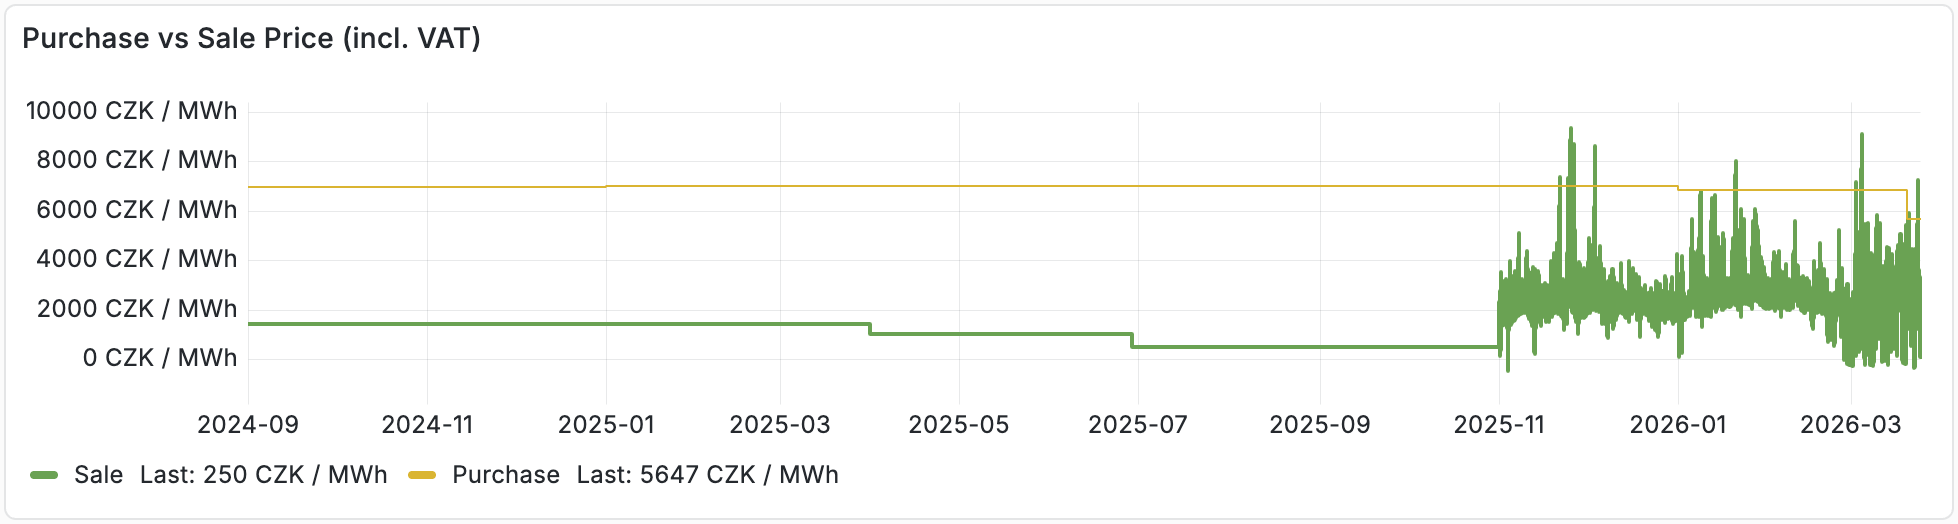
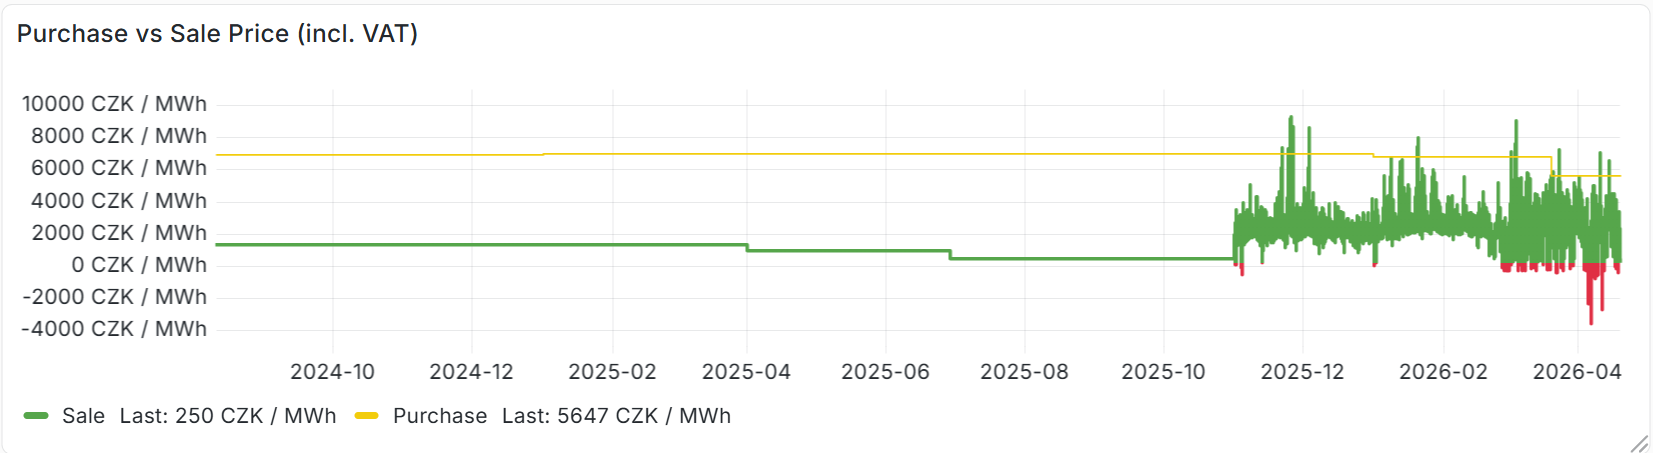
WIP for HA

diff --git a/README-HA.md b/README-HA.md
@@ -1,0 +1,243 @@
+# Introduction 
+> :sparkles: Some bits of code has been proposed by AI. Also text has been corrected with help of AI.
+
+After A year or so of having photovoltaic installation (PV) and pretty good flat rate of selling energy I had to switch to spot prices. It introduced a need to squeeze as much as possible from this setup. in terms of optimizing a return of investment (ROI).
+
+The solution does not implement automation of activating household appliances, that accumulates energy during cheapest periods. It correlates electricity spot prices with solar exposure forecast to find the best time frames to sell the energy as well as charge battery.
+
+# Understanding PV Plant ROI
+
+> :bulb: the information below is based on Central European market. Might differ in other parts of the world.
+
+The most important factor is that the gross price of purchased electricity is several times higher than the price at which electricity is sold. In the Czech Republic, households sell electricity at net prices. While no regulatory costs are applied on the selling side, intermediary companies charge various handling fees, reducing the net income.
+
+At the same time, purchasing electricity includes additional regulatory costs such as distribution, network maintenance, and special taxes - all of which are further increased by VAT.
+
+Here is the evolution of total selling and purchasing prices over the past years:
+
+![Sale vs Purchase Price Comparison](images/sale_vs_purchase.png)
+You might spot, that since Nov'25 the saling price is not constant anymore. Correct, those are spot prices I opted since then. It's obvious that average price is higher than previously flat rate. Red color indicates prices below which export to grid should avoided. It's because of negative prices spot prices shifted by a fee for the company who I sell the energy to.
+
+The ROI (Return on Investment) is built on two main components:
+
+- **PV energy consumed by the household** – This should form the largest portion of ROI. It represents the cost of electricity you did not have to buy thanks to your PV system. The more PV energy you can store and use within the household, the better.
+- **PV energy sold** – Typically, especially during summer months, more PV produced energy is sold than utilized, but its total contribution to ROI is significantly smaller. Doesn't mean negligible.
+
+# The Automation Concept
+
+These observations lead to a set of general automation rules:
+
+1. Sell energy stored in batteries during peak price periods
+2. Delay battery charging during morning hours, to sell PV production for good prices
+3. Charge the battery during the cheapest price window
+4. Discharge only if enough PV energy is forecasted
+5. Secure minimum energy in battery to avoid buying it for household operations
+
+This together introduces four phases:
+
+## Discharge (morning and evening)
+
+> ??? To sell stored energy, the inverter must be switched to a mode that exports battery energy to the grid. This may be available as a main operating mode or as a scheduled mode (Time of Use, ToU).
+
+While it could be limited to single discharge in the morning, split into two has benefits:
+* prices during evening hours are ussually a bit higher
+* Due to narrowness of peaks it's better to share energy over two peaks
+* split into two gives better margin management
+* morning PV forecast allows last minute skip of morning discharge
+
+Discharging must not result in an energy deficit later. Therefore no discharge is triggered if not enough PV energy is forecasted. At the same time a minimum battery levels must be maintained. In my setup it makes 25% SOC reserved after morning discharge together with minimum of 17kWh forecasted energy or 70% SOC after evening discharge and 13 kWh of forecasted PV energy next day.
+
+The exact setup might differ from installation to installation. It must be set with safe margin to avoid buying energy if not enough sunlight.
+
+## Delayed Charge
+
+It is the period between morning discharge and the cheapest charging window.
+
+During this time:
+- The system should behave similarly to General mode, but
+- PV production should prioritize export to the grid over charging the battery.
+
+This period implements several guards:
+
+- it's activated only if proceeds the morning discharge. It comes from assumption that limted forecasted energy might lead to insufficient battery charge, thus the operation is not worth it.
+
+- during this period, the battery still provides energy to the hausehold, in case PV doesn't cover the needs. If battery SOC drops to the predefined limit, the mode is interrupted and inverter returns to regular operational mode, securing battery charge from PV.
+
+- if spot prices drop too low during this period, selling does not make sense anymore. It is better to use PV energy to charge the battery.
+
+> ??? This mode might be called **Feed-in Mode**. If unavailable, limiting the charging current may help achieving a similar result, though Feed-in Mode still allows charging if PV production exceeds export limits.
+
+> Wattsonic Gen3 with firmware 2.x does not provide Feed-in Mode. It was introduced in later firmware versions.
+
+## Cheapest Charge
+
+Charging during the cheapest hours requires no special inverter mode - just the standard “General” mode. More important is securing enough time to fully charge battery. During development and testing cycle I introduced some parameters to avoid extreme sitatuations:
+
+- Charging End Time - If cheapest hours become later than usual and/or bad sun conditions requires more time to charge, both cases together with forecast unpredictability might lead to situation that battery will not charge enough. This setting prevents it by planning the chargin time window earlier.
+
+- Charge Overhead - Normally the demand is calculated from battery size, SOC to charge and forecasted PV energy capped by Charge velocity. It does not take into account household usage. This parameter increases energy demand for charging by given factor in an attempt to predict realistic time window for the charge.
+
+<img src="images/config_2.png" alt="Config 2" width="40%">
+
+# The Package
+
+For no better option, the entire solution is implemented as a Home Assistant package, and it depends on some external components.
+
+```mermaid
+flowchart
+
+        subgraph ext [" "]
+            direction LR
+                sc[Solcast]
+                sp[Spot Prices]
+                inv[Inverter]
+        end
+
+        subgraph ha [PV Control Package]
+            ts[Template Sensors] --> a[Automation]
+            cnf[Config Entities] --> a
+            ps[Proxy Sensors] --> a[Automation]
+            a <--> as["Automation State"]
+            a -->|call| scr[Scripts]
+            scr --> inv
+            inv --> ps
+            sc --> ps
+            sp --> ps
+        end
+
+style ext fill:white,stroke-width:0px
+```
+
+**Template Sensors**
+These sensors calculate start and end of time periods, reflecting automation life-cycle.
+
+- `sensor.pv_ctrl_most_expensive_hours_morning` – Start time of morning discharge
+- `sensor.pv_ctrl_most_expensive_hours_afternoon` – Start time of evening discharge
+- `sensor.pv_ctrl_cheapest_hours` – Start time of cheapest charging window
+
+These sensors stores additional data under attributes.data key. The information is used for the internal logic as well as for dashboard presentation
+
+**Prices Sensor**
+This sensor provides array of today's and tomorrow spot prices. unlike in original Czech spot prices integration, it organizes data into an array, rather that values assigned to volatile keys. Such an structure is better for processing. It also plays a role of the proxy, allowing to implement different spot pricing providers. The data are stored in `attributes.data` as `[{time1: val1}, {time2, val2}, {timen: valn}]`, where time is provided as ISO formatted string and value represent energy in kWh.
+
+**Automation State and Config Entities**
+
+Both are implemented as `input` entities. 
+
+Automation state materializes state of the automation logic.
+
+Config Entities provides option to customize and control the automation.
+
+
+| Entity                                       | Description |
+|----------------------------------------------|-------------|
+| `input_boolean.pv_ctrl_edit_mode`            | Used for dashboard only, preventing accidental changes to the settings. It's especially important for mobile views, where current HA UI makes an accidental change of parameters more then likely |
+| `input_select.pv_ctrl_mode`                  | Allows to enable the automation either in `real` or `dry mode`, or `disable` it. The `Dry-run` does everything but requesting changes to the inverter. It's good to test if the automation phases proceed as expected. |
+| `input_boolean.pv_ctrl_debug`                | Toggles recording the debug informations to the Home Assistant log |
+| `input_select.pv_ctrl_phase`                 | Materializes and provides the current automation phase. Not intended to be edited manually. Possible values are `General`, `Morning Discharge`, `Delayed Charge`, `Cheapest Charge`, `Evening Discharge`. |
+| `input_number.pv_ctrl_min_suncast_current_day` | Minimum forecasted energy for today; required for the morning discharge |
+| `input_number.pv_ctrl_min_suncast_next_day` | Minimum forecasted energy for tomorrow; required for the evening discharge |
+| `input_number.pv_ctrl_soc_limit_morning`    | SOC limit for morning discharge |
+| `input_number.pv_ctrl_soc_limit_evening`    | SOC limit for evening discharge |
+| `input_number.pv_ctrl_min_export_price`     | Maximum energy price (per kWh), that prevents exporting energy (e.g., 0.25 CZK). |
+| `input_number.pv_ctrl_charge_velocity`      | Maximum charging power, the velocity the battery can be charged with. Used to cap PV energy provided by Solcast |
+| `input_number.pv_ctrl_discharge_velocity`   | Maximum discharge power, used to calculate a time needed to discharge battery to requested SOC |
+| `input_number.pv_ctrl_battery_capacity`     | Used in calculation of 1% of SOC |
+| `input_datetime.pv_ctrl_charge_delay_time_limit` | Limits predicted end time of cheapest charge time window. Might be helpful if cheapest hours (occasionally) starts late afternoon, but you don't want to delay charging so much |
+
+
+**Script**
+The `script.pv_ctrl_inverter` is a single script, parametrized to implement inverter-specific commands. It's called by the automation. It might be used for manual control of the automation or inverter from dashboard.
+
+Example:
+```yaml
+action: script.pv_ctrl_inverter
+data:
+  mode: general
+```
+
+Following modes are accepted:
+`general` - Resets inverter to general mode, incl. restoring unlimited battery charge
+`discharge_grid` - enables discharge mode to the grid. Currently implemented with use of schedule Wattsonic feature, that allows to chose discharge mode. 
+`feedin` - make inverter prefer injecting produced energy to the grid, instead of charging battery. Cyrrently chieved by limiting a charge current. 
+`charge_disabled` - sets charge current to zero (unused)
+`charge_enabled` - sets charge current to maximum (unused)
+`injection_enabled` - Enables injection to the grid
+`injection_disabled` - Disables injection to the grid
+
+Two latest operations are utilized by another - independent - automation that prevents selling energy when its price is below configured limit.
+
+**Automation**
+Finally, the `automation.pv_ctrl_executor` is the core component that makes decissions based on its current state and inputs provided by sensors.
+
+## External Entities
+
+The solution make use of following entities, that come from other integrations:
+
+**Solcast**
+
+- `sensor.solcast_pv_forecast_forecast_today`   - sensor that provides forecasted PV energy today
+- `sensor.solcast_pv_forecast_forecast_tomorrow` - sensor that provides forecasted PV energy tomorrow
+
+**Spot Prices**
+
+- `sensor.current_spot_electricity_price_15min` - sensor providing spot prices.
+
+**Inverter**
+
+- `sensor.wattsonic_battery_soc` - Inverter sensor that provides the state of charge of the battery
+
+# Dashboard
+
+![The Dashboard](images/dashboard.png)
+
+The design of the dashboard is a matter of personal preference. This one grown during development to help visualization of relationships between variables and to allow manual control in case the automation behaves unexpectedly (which can happen during development).
+
+Configuration controls are protected by an Edit Mode toggle to prevent accidental changes - especially useful on mobile devices.
+
+The top buttons control inverter modes. The five buttons below represent automation phases.
+
+This dashboard uses:
+- `custom:apex-charts` for graphs
+- `custom:button-card` for controls
+- `custom:restriction-card` for locking UI elements
+- `cardmod` integration
+
+# The Rabbit Hole
+
+During development, it’s very easy to fall into the “just one more feature” spiral. The model presented here is intentionally kept as simple as possible, but there are many directions where it could be extended. For example:
+
+- defining different energy requirements for each day of the week  
+- pick up most expensive time periods instead of continuous blocks
+- operating fully in the energy/power domain instead of relying on SOC and estimated transfer rates
+- planning additional loads for the next day
+- introducing a “vacation mode” to reflect lower household consumption
+- integrating with a calendar as a provider of anticipated changes in usage
+- incorporating AI to predict household consumption based on historical data
+
+So, is it worth it?
+
+From a learning and development perspective, maybe the answer is yes. It’s a great playground for experimenting and improving your setup.
+
+From a financial perspective, it’s less clear.
+
+More advanced logic means more complex code, more configuration, and more edge cases to handle. Higher precision and tighter margins also require more accurate predictions, especially for household consumption, which is inherently difficult to model. In practice, this can even place additional expectations on other household members.
+
+And in the end, the improvement in ROI may be marginal.
+
+That said, it always depends on the specific setup. In some cases, the extra complexity might pay off - but it’s worth considering whether the added effort is justified.
+
+# The code
+
+The Home Assistant package is available under Github [link](https://github.com/michal-bartak/homeassistant-pv-control/blob/main/packages/pv_control.yaml)
+
+**Requirements**
+* Wattsonic gen3 integration ([github](https://github.com/GiZMoSK1221/hass-addons))
+* Solcast ([github](https://github.com/BJReplay/ha-solcast-solar))
+* CZ Spot prices ([github](https://github.com/rnovacek/homeassistant_cz_energy_spot_prices))
+
+> :exclamation: It's important to maintain normalized unit magnitude for all sensors and input values: kW / kWh
+
+Reconfiguring for other coverters is possible. It requires to adjust the script to make it control the inverter, as well as replace SOC sensor in template sensors and automation.
+
+Using another Spot prices provider would require rewriting Spot Prices template sensor.

diff --git a/README.md b/README.md
@@ -2,17 +2,19 @@ Recently I noticed several PV automation projects seen the light of day. All of 
 
 While it's implemented with specific dependencies in mind, the article provide general thoughts allowing to adjust for use with any other PV inverter.
 
-> :sparkles: Some parts of code has been proposed by AI. Also text has been corrected with help of AI.
+> :sparkles: Some bits of code has been proposed by AI. Also text has been corrected with help of AI.
 
 # Introduction
 
 The idea of a household PV plant as a money-making machine was never really accurate, even if advertisements sometimes make it seem that way. Anyone who had that expectation was likely brought back to reality fairly quickly.
 
-In fact, household's PV systems are often only marginally profitable - unless they are also viewed as a hobby. The initial investment is quite high. Larger systems perform better outside the summer season, but they are also more expensive (especially due to batteries). In most cases, the return on investment is not expected earlier than 10 years.
+In fact, household's PV systems are often only marginally profitable - unless they are also viewed as a hobby. The initial investment is quite high. Larger systems perform better outside the summer season, but they are also more expensive (especially due to batteries). In most cases, the return on investment (ROI) is not expected earlier than 10 years while still not guaranteed.
 
-ROI depends on several factors. Let’s break them down.
+How fast the investment is returned depends on several factors. Let’s break them down.
 
 # Understanding PV Plant ROI
+
+> :bulb: the information below is based on Central European market. Might differ in other parts of the world.
 
 The most important fact is that the gross price of purchased electricity is several times higher than the price at which electricity is sold. In the Czech Republic, households sell electricity at net prices. While no regulatory costs are applied on the selling side, intermediary companies charge various handling fees, reducing the net income.
 
@@ -21,6 +23,8 @@ At the same time, purchasing electricity includes additional regulatory costs su
 Here is the evolution of total selling and purchasing prices over the past years:
 
 ![Sale vs Purchase Price Comparison](images/sale_vs_purchase.png)
+
+You might spot, that since Nov'25 the saling price is not constant anymore. Correct, those are spot prices I opted since then.
 
 The ROI (Return on Investment) is built on two main components:
 
@@ -31,50 +35,35 @@ Given this, income from sold energy is only a fraction of total ROI. In my house
 
 ![ROI build-up](images/roi_buildup.png)
 
-There are several ways to manage electricity prices. In most countries, it is possible to choose between flat rates and spot pricing for both buying and selling independently.
+It builds up the first conclussion: the ideal way to maximize ROI is to utilize am much produced energy as possible. But if you, like me, produce excess of energy and found no better way to utilize it than sell on spot market, this is article is for you.
 
-Using spot prices for both (so-called “spot surfing”) is likely the most efficient approach. However, it requires adapting the entire household to shift consumption to the cheapest time periods. I guess not every family is ready for that. We are not.
+Operating on spot prices opens opportunities for some optimizations. This article presents a simple yet effective method of using spot prices and weather forecasts to extract additional value from a PV system.
 
-I opted for a hybrid approach: buying electricity at a flat rate (preferably fixed for several years, especially in today’s uncertain environment) and selling at spot prices.
-
-Selling at spot prices opens opportunities for some optimizations. This article presents a simple yet effective method of using spot prices and weather forecasts to extract additional value from a PV system.
-
-To make this work, reliable data sources are essential. Spot prices are officially published in advance. They have to be imported to Home Assistant. For PV production forecasting, **Solcast** is the best solution I know. It offers a free tier for hobby users (with some limitations) and works very accurately for my location.
+To make this work, reliable data sources are essential. Spot prices are officially published in advance. For PV production forecasting, **Solcast** is the best solution I know. It offers a free tier for hobby users (with some limitations) and works very accurately for my location.
 
 <img src="images/prices_and_sun.png" alt="Prices and Irradiance" width="70%">
 
-The upper graph shows spot prices. Next-day prices are typically published in the afternoon, around 2 PM.
+The graphs evolution of prices and predicted solar production for 2 subsequent days. Next-day prices are typically published during the preceeding day (around 2 PM in Czech Republic).
 
 Daily price patterns usually feature two peaks: morning and evening, and a trough around midday. The peaks are typically short, while the midday dip can sometimes last for several hours.
 
-The lower graph shows predicted PV production based on data from Solcast. The forecast is updated multiple times per day, improving accuracy over time. Solcast provides prediction for several days ahead giving overview what is comming next, though these are not utilized by this project.
-
-<img src="images/solcast_7d.png" alt="Solcast 7 days forecast" width="60%">
+The Solcast updates its forecast multiple times per day, improving accuracy over time. Moreover, it provides prediction for several days ahead giving overview what is comming next, though these are not utilized by my automation.
 
 # The Automation Concept
 
-These observations lead to a set of automation rules:
+These observations lead to a set of general automation rules:
 
 1. Sell energy stored in batteries during peak price periods
-2. Delay battery charging during morning hours, to sell for good prices
+2. Delay battery charging during morning hours, to sell PV production for good prices
 3. Charge the battery during the cheapest price window
-4. Do not discharge if not enough PV energy is forecasted
-5. Secure minimum energy in battery that is needed for normal household operations at any time
-
-It starts from creation of 3 template sensors, that calculates time windows for charging and discharging. The code incolved for their creation does the most dirty job. the result is utilized by the automation as well as visualization.
-
-They need a few settings:
-<img src="images/config_1.png" alt="Config 1" width="40%">
-
-Sensors are updated every minute, then once start horizon is reached, the particuluar sensor is locked until next midnight. Sensors are also protected against moving the target to the past.
+4. Discharge only if enough PV energy is forecasted
+5. Secure minimum energy in battery to avoid buying it for household operations
 
 ## Discharge
 
-To sell stored energy, the inverter must be switched to a mode that exports battery energy to the grid. This may be available as a main operating mode or as a scheduled mode (Time of Use, ToU).
+> ??? To sell stored energy, the inverter must be switched to a mode that exports battery energy to the grid. This may be available as a main operating mode or as a scheduled mode (Time of Use, ToU).
 
-Discharging must not result in an energy deficit later. Therefore no discharge is triggered if no enough PV energy is forecasted as well as minimum battery levels must be maintained. In my setu it makes 70% SOC after evening discharge and 25% SOC reserved after morning discharge.
-
-> Selling energy despite low forecast only makes sense if selling prices exceed buying prices. This does happen occasionally, but not often enough to rely on.
+Discharging must not result in an energy deficit later. Therefore no discharge is triggered if not enough PV energy is forecasted. Also minimum battery levels must be maintained. In my setup it makes 70% SOC after evening discharge and 25% SOC reserved after morning discharge and min 17kWh forecasted energy next day. Though it 
 
 ## Delayed Charge
 
@@ -84,23 +73,23 @@ During this time:
 - The system should behave similarly to General mode, but
 - PV production should prioritize export to the grid over charging the battery.
 
-This is typically called **Feed-in Mode**. If unavailable, limiting the charging current may help achieving a similar result, though Feed-in Mode still allows charging if PV production exceeds export limits.
-
-> Wattsonic Gen3 with firmware 2.x does not provide Feed-in Mode. It was introduced in later firmware versions.
-
 This period implements several guards:
 
-- it's is activated only if proceeds the morning discharge. Otherwise not enough solar energy forecasted is considered
+- it's activated only if proceeds the morning discharge. Otherwise not enough solar energy forecasted is considered to play this game.
 
-- in this mode the battery still provides energy to the hausehold, in case PV doesn't cover the requirement. If battery SOC drops to the predefined limit, the mode is interrupted and inverter returns to regular operational mode.
+- during this period,  the battery still provides energy to the hausehold, in case PV doesn't cover the requirement. If battery SOC drops to the predefined limit, the mode is interrupted and inverter returns to regular operational mode, securing battery charge from PV.
 
-- if spot prices drop too low during this period, selling does not make sense anymore. It is better to use PV energy charge the battery.
+- if spot prices drop too low during this period, selling does not make sense anymore. It is better to use PV energy to charge the battery.
+
+> ??? This mode might be called **Feed-in Mode**. If unavailable, limiting the charging current may help achieving a similar result, though Feed-in Mode still allows charging if PV production exceeds export limits.
+
+> Wattsonic Gen3 with firmware 2.x does not provide Feed-in Mode. It was introduced in later firmware versions.
 
 ## Cheapest Charge
 
 Charging during the cheapest hours requires no special inverter mode - just the standard “General” mode. More important is securing charge window big enough to fully charge battery. During development and testing cycle I introduced some parameters to save from extreme sitatuations:
 
-- Chargin End Time - If cheapest hours become later than usual and/or due to bad weather the chargin requires more time, both cases together with forecast unpredictability might lead to situation that battery will never fully charge. This setting effectively shifts the time window back, preventing too late charging.
+- Charging End Time - If cheapest hours become later than usual and/or due to bad weather the chargin requires more time, both cases together with forecast unpredictability might lead to situation that battery will never fully charge. This setting effectively shifts the time window back, preventing too late charging.
 
 - Charge Overhead - increases energy demand for charging by given factor. It extrapolates household energy usage during the same hours.
 